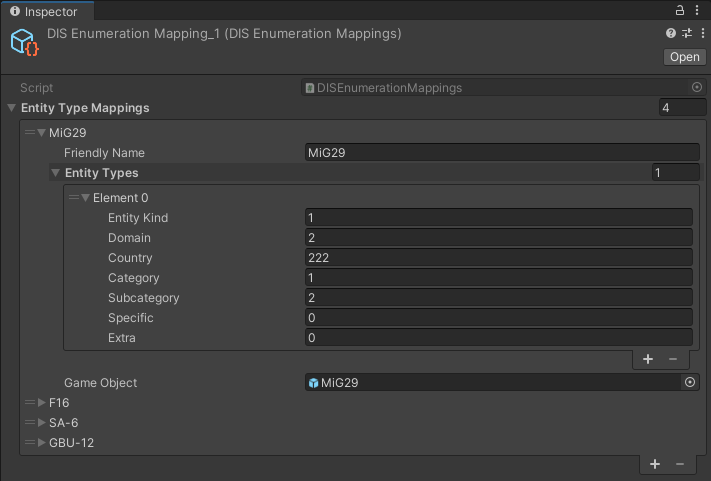
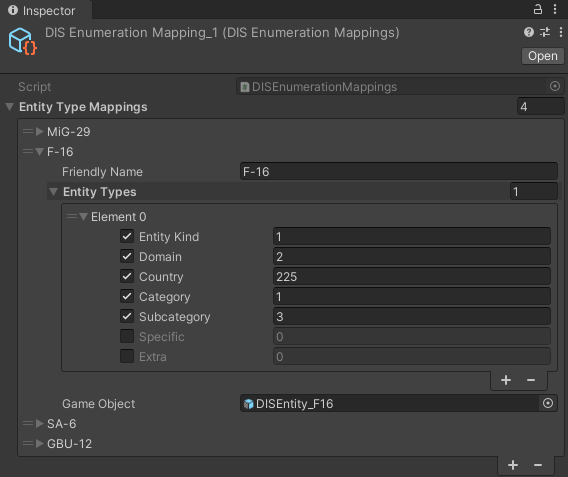
Update README and CHANGELOG.

diff --git a/README.md b/README.md
@@ -21,11 +21,14 @@
 # Implemented DIS PDUs
 
 The GRILL DIS for Unity plugin currently supports the below DIS PDUs:
+- Designator
+- Detonation
+- Electromagnetic Emissions
 - Entity State
 - Entity State Update
-- Remove Entity
 - Fire
-- Detonate
+- Remove Entity
+- Signal
 - Start Resume
 - Stop Freeze
 
@@ -238,8 +241,9 @@ The PDU Sender script has the following settings:
     - Entity Type
 		- This record specifies the kind of entity, the country of design, the domain, the specific identification of the entity, and any extra information necessary for describing the entity.
         - This value should be set on the component and will be used when sending automatic PDU updates.
-    - Entity ID
-		- This record specifies the site ID, application ID, and entity ID fields. They combine to form a unique identifier of the entity in the exercise.
+        - _**NOTE**_: The checkbox to the left of the Entity Type fields has no functionality in the DIS Send component outside of being able to edit the variable. This checkbox is used for Entity Type wildcards and only has functionality when receiving Entity Type info.
+    - Current Entity ID
+		- This record specifies the ID of the associated entity fields. When sending, this can be combined with the Site ID and Application ID stored in the DIS Game Manager to form the unique identifier of the entity in the exercise.
         - This value should be set on the component and will be used when sending automatic PDU updates.
     - Entity Force ID
 		- This field distinguishes the different teams or sides in a DIS exercise.
@@ -330,6 +334,10 @@ The PDU Sender script has the following settings:
         - _**NOTE:**_ Although not required, for proper DIS delegation each game object used here should have a DIS Receive Component script attached to it.
     - Entity Types
         - All desired DIS Enumerations that should point to this game object.
+        - _**NOTE**_: The checkbox to the left of the Entity Type fields represents wildcards.
+            - If the checkbox is enabled, the specific value given will be referenced.
+            - If the checkbox is disabled, the value will be treated as a wildcard.
+            - Ex: The below image would use wildcards for the Specific and Extra fields.
         - _**NOTE**_: If duplicate enumerations are found across multiple entities, an appropriate message is logged and the most recent encountered game object to enumeration mapping is used.
         - _**NOTE**_: If a DIS Enumeration is received on the network and no mapping exists for it, an appropriate message is logged and the packet is ignored.
         - For a breakdown of the individual elements of a DIS Enumeration, refer to the [Naval Postgraduate School's Documentation](http://faculty.nps.edu/brutzman/vrtp/mil/navy/nps/disenumerations/jdbehtmlfiles/pdu/28.htm#:~:text=Description%3A%20The%20type%20of%20entity,necessary%20for%20describing%20the%20entity.).

diff --git a/CHANGELOG.md b/CHANGELOG.md
@@ -1,17 +1,44 @@
-# Beta 0.4.1 -- Initial Unity version
+# Changelog
+
+## Beta 0.11.0
+
+- Add ability to have wildcards for DIS enumerations.
+
+## Beta 0.10.1
+
+- Update PDUProcessor to go through all received packets if multiple received in a frame.
+
+## Beta 0.10.0
+
+- Fix ground clamping issues and add UnityEvent for it in DISReceiveComponent.
+- Add error catching in UDPReceiverMulti.
+- Fix issues with geospatial conversions in GeoreferenceSystem.
+- Fix orienting entities properly when far away from origin in Conversions.
+
+## Beta 0.9.0
+
+- Add Detonation PDU handle for NO SPECIFIC ENTITY in DIS Game Manager
+- Add catch for failed PDU unmarshalling in PDU Processor
+- Add multicast TTL setting in PDU Sender
+- Update entity state calculations every frame in DIS Send Component
+- Combine lat/lon parameters in multiple Conversions functions to be FLatLonAlt struct
+- Fix issues in FPB and RPB Dead Reckoning body acceleration calculations
+- Fix issues with Quaternion dead reckoning threshold calculations
+
+## Beta 0.4.1 -- Initial Unity version
 
 - Made DIS Enumeration Mappings a scriptable object for easy reuse.
 - Bug fixes to the DIS Sending component, Dead Reckoning, and unwinding rotations in the Conversions library.
 - Updated LLA/ECEF conversions in Conversions library to more accurate math.
 
-# Beta 0.4.0
+## Beta 0.4.0
 
 - Added Floating Point error check to fix float values outside of ACos Range.
 - Edited DISManager Prefab for more general defaults
 - Added Unity Event for when a new DIS Entity is created.
 - Added disconnect method to PDUReceiver.
 
-# Beta 0.3.0
+## Beta 0.3.0
 
 - Finished implementing the DISSendComponent
 - Renamed DISEnums.cs to DISEnumsAndStructs.cs as structs for geospatial variables were all added in. 
@@ -20,7 +47,7 @@
 - In DISSendComponent, moved ESPDU variable calculations for linear velocity, linear acceleration, and angular velocity to a timer to give user more flexibility over frequency of them. 
 - Fixed small math errors in Conversions library where ACos functions were missing where needed.
 
-# Beta 0.2.0
+## Beta 0.2.0
 
 - Added more conversions to the Conversions library
 - Added Beginnings of GeoreferenceSystem
@@ -30,7 +57,7 @@
 - Removed DIS Entity Base.
 - Separated DIS component into a Send and Receive component. The DISSendComponent is not fully finished.
 
-# Beta 0.1.0
+## Beta 0.1.0
 
 - Implemented OpenDIS C# libraries.
 - Added a UDP Sender and receiver.
